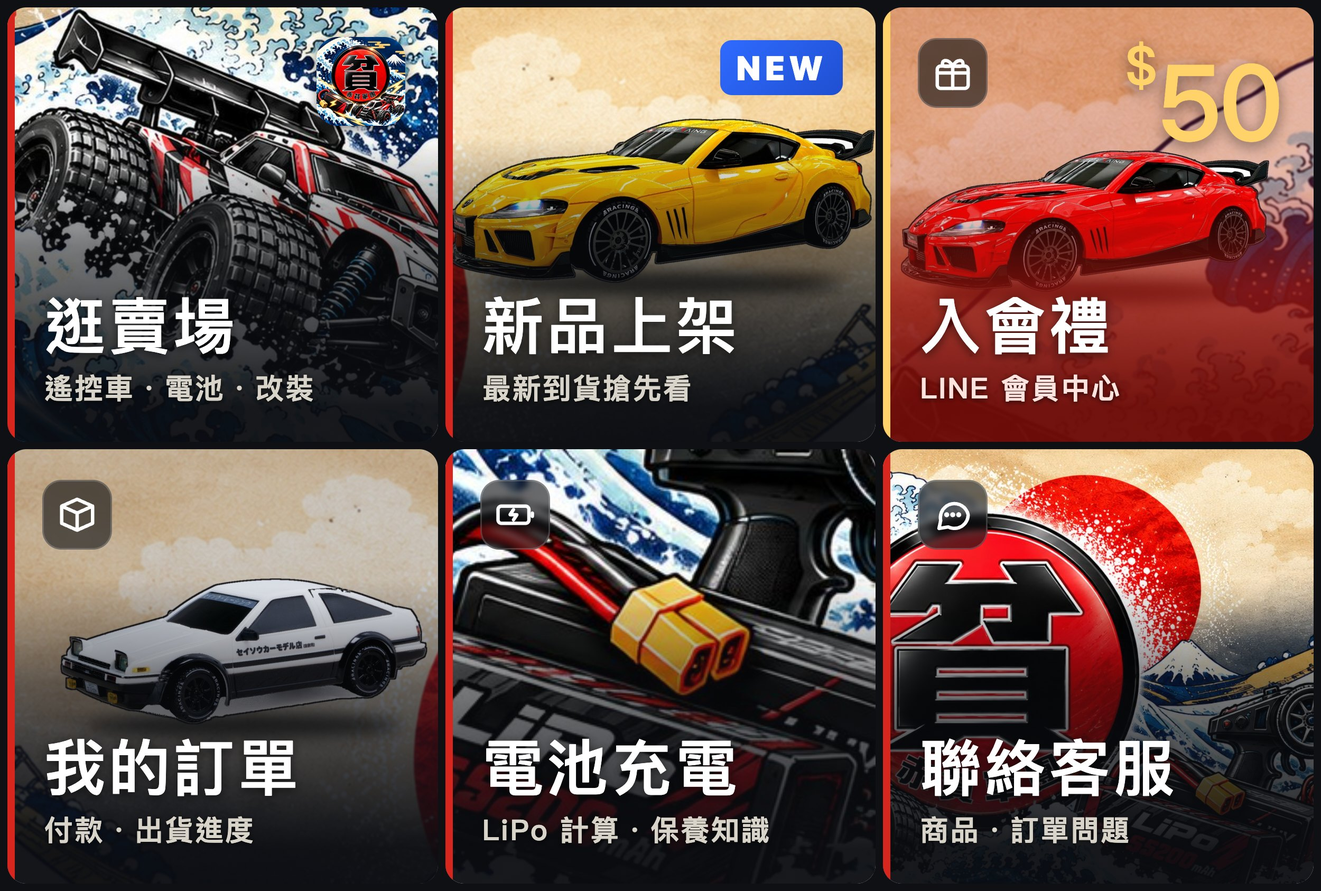
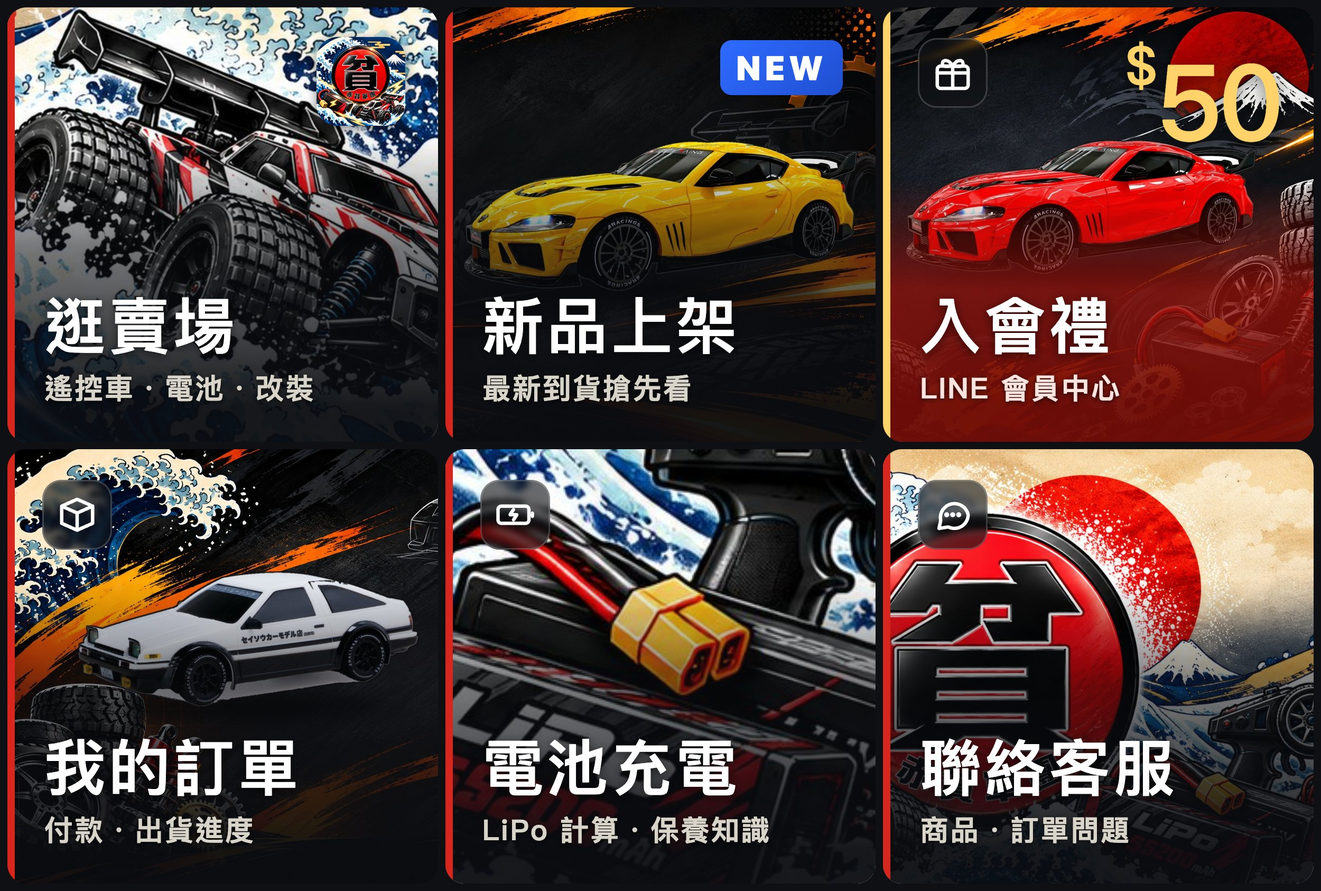
LINE 選單三格換使用者提供背景

Changed region(s): [[0.3432, 0.0, 0.9984, 0.4318], [0.0, 0.4935, 0.3432, 0.9253]]

diff --git a/shop.html b/shop.html
@@ -4,7 +4,7 @@
 <meta charset="utf-8">
 <meta http-equiv="Content-Security-Policy" content="default-src 'self'; style-src 'self' 'unsafe-inline'; img-src 'self' data: https://profile.line-scdn.net https://qr-official.line.me https://lh3.googleusercontent.com https://i.ytimg.com https://drive.google.com; media-src 'self' https://drive.usercontent.google.com; connect-src 'self' https://script.google.com https://script.googleusercontent.com; frame-src https://www.youtube.com https://drive.google.com https://www.instagram.com; object-src 'none'; base-uri 'self'; form-action 'self' https://payment.ecpay.com.tw https://payment-stage.ecpay.com.tw https://emap.presco.com.tw https://access.line.me https://logistics.ecpay.com.tw https://logistics-stage.ecpay.com.tw; script-src 'self' 'sha256-f9E3XOo4UEJWm5MW1xWpvMeN+l89EpNyal7bqB3aLX8=' 'sha256-5U/5zV84P3UxVC/owxDV7vudVfiqSUxly1zC4axYmJ8='">
 <meta name="referrer" content="strict-origin-when-cross-origin">
-<meta name="build" content="202611092337">
+<meta name="build" content="202611092347">
 <script>
 // 從 LINE 開啟且未登入：在載入任何東西之前就直接跳 LINE 登入（使用者 11-08：從官方 LINE 點進來登入要等）。與 shop.html 下方 lineAuthUrl 同一套參數。
 // 後台 LINE 登入的回呼（state 以 a_ 開頭）也會回到賣場：立刻轉給後台處理
@@ -599,9 +599,9 @@ body.locked{position:fixed;left:0;right:0;width:100%;overflow:hidden}
 <!-- 影片 -->
 <div class="sheet" id="vSheet" role="dialog" aria-modal="true"><div class="panel" id="vPanel"></div></div>
 
-<script src="track.js?v=202611092337"></script>
-<script src="shop-core.js?v=202611092337"></script>
-<script src="tw-zip.js?v=202611092337"></script>
+<script src="track.js?v=202611092347"></script>
+<script src="shop-core.js?v=202611092347"></script>
+<script src="tw-zip.js?v=202611092347"></script>
 <script>
 const $ = id => document.getElementById(id);
 const ICON = {

diff --git a/admin.html b/admin.html
@@ -4,7 +4,7 @@
 <meta charset="utf-8">
 <meta http-equiv="Content-Security-Policy" content="default-src 'self'; style-src 'self' 'unsafe-inline'; img-src 'self' data: https://profile.line-scdn.net https://qr-official.line.me https://lh3.googleusercontent.com https://i.ytimg.com https://drive.google.com; media-src 'self' https://drive.usercontent.google.com; connect-src 'self' https://script.google.com https://script.googleusercontent.com; frame-src https://www.youtube.com https://drive.google.com https://www.instagram.com; object-src 'none'; base-uri 'self'; form-action 'self' https://payment.ecpay.com.tw https://payment-stage.ecpay.com.tw https://emap.presco.com.tw https://access.line.me https://logistics.ecpay.com.tw https://logistics-stage.ecpay.com.tw; script-src 'self' 'sha256-nmsQbqfweM17zXbfDd8Ai1QRPVJTWHBXufBT11BosHc='">
 <meta name="referrer" content="strict-origin-when-cross-origin">
-<meta name="build" content="202611092337">
+<meta name="build" content="202611092347">
 <meta name="viewport" content="width=device-width, initial-scale=1, maximum-scale=1, viewport-fit=cover">
 <meta name="robots" content="noindex">
 <title>赤貧軍團｜管理後台</title>
@@ -267,7 +267,7 @@ details.fold[open] summary i{color:var(--faint)}
 <div class="toast" id="toast"></div>
 <input type="file" id="fileIn" hidden>
 
-<script src="shop-core.js?v=202611092337"></script>
+<script src="shop-core.js?v=202611092347"></script>
 <script>
 const $ = id => document.getElementById(id);
 // 登入存在 localStorage，10 天內同一台裝置不用重新登入（到期由後端判斷）

diff --git a/index.html b/index.html
@@ -4,7 +4,7 @@
 <meta charset="utf-8">
 <meta http-equiv="Content-Security-Policy" content="default-src 'self'; style-src 'self' 'unsafe-inline'; img-src 'self' data: https://profile.line-scdn.net https://qr-official.line.me https://lh3.googleusercontent.com https://i.ytimg.com https://drive.google.com; media-src 'self' https://drive.usercontent.google.com; connect-src 'self' https://script.google.com https://script.googleusercontent.com; frame-src https://www.youtube.com https://drive.google.com https://www.instagram.com; object-src 'none'; base-uri 'self'; form-action 'self' https://payment.ecpay.com.tw https://payment-stage.ecpay.com.tw https://emap.presco.com.tw https://access.line.me https://logistics.ecpay.com.tw https://logistics-stage.ecpay.com.tw; script-src 'self' 'sha256-0kVSUvX6dFHG8DOjnwGus+U8xnITvepikoDM9QnjxnU='">
 <meta name="referrer" content="strict-origin-when-cross-origin">
-<meta name="build" content="202611092337">
+<meta name="build" content="202611092347">
 <meta name="viewport" content="width=device-width, initial-scale=1, maximum-scale=1, viewport-fit=cover">
 <title>赤貧軍團｜RC 鋰電池充電</title>
 <meta name="description" content="鋰電池充電計算、電壓對照、保養與安全知識。">
@@ -725,6 +725,6 @@ syncNav();
   } catch (e) {}
 })();
 </script>
-<script src="track.js?v=202611092337"></script>
+<script src="track.js?v=202611092347"></script>
 </body>
 </html>
